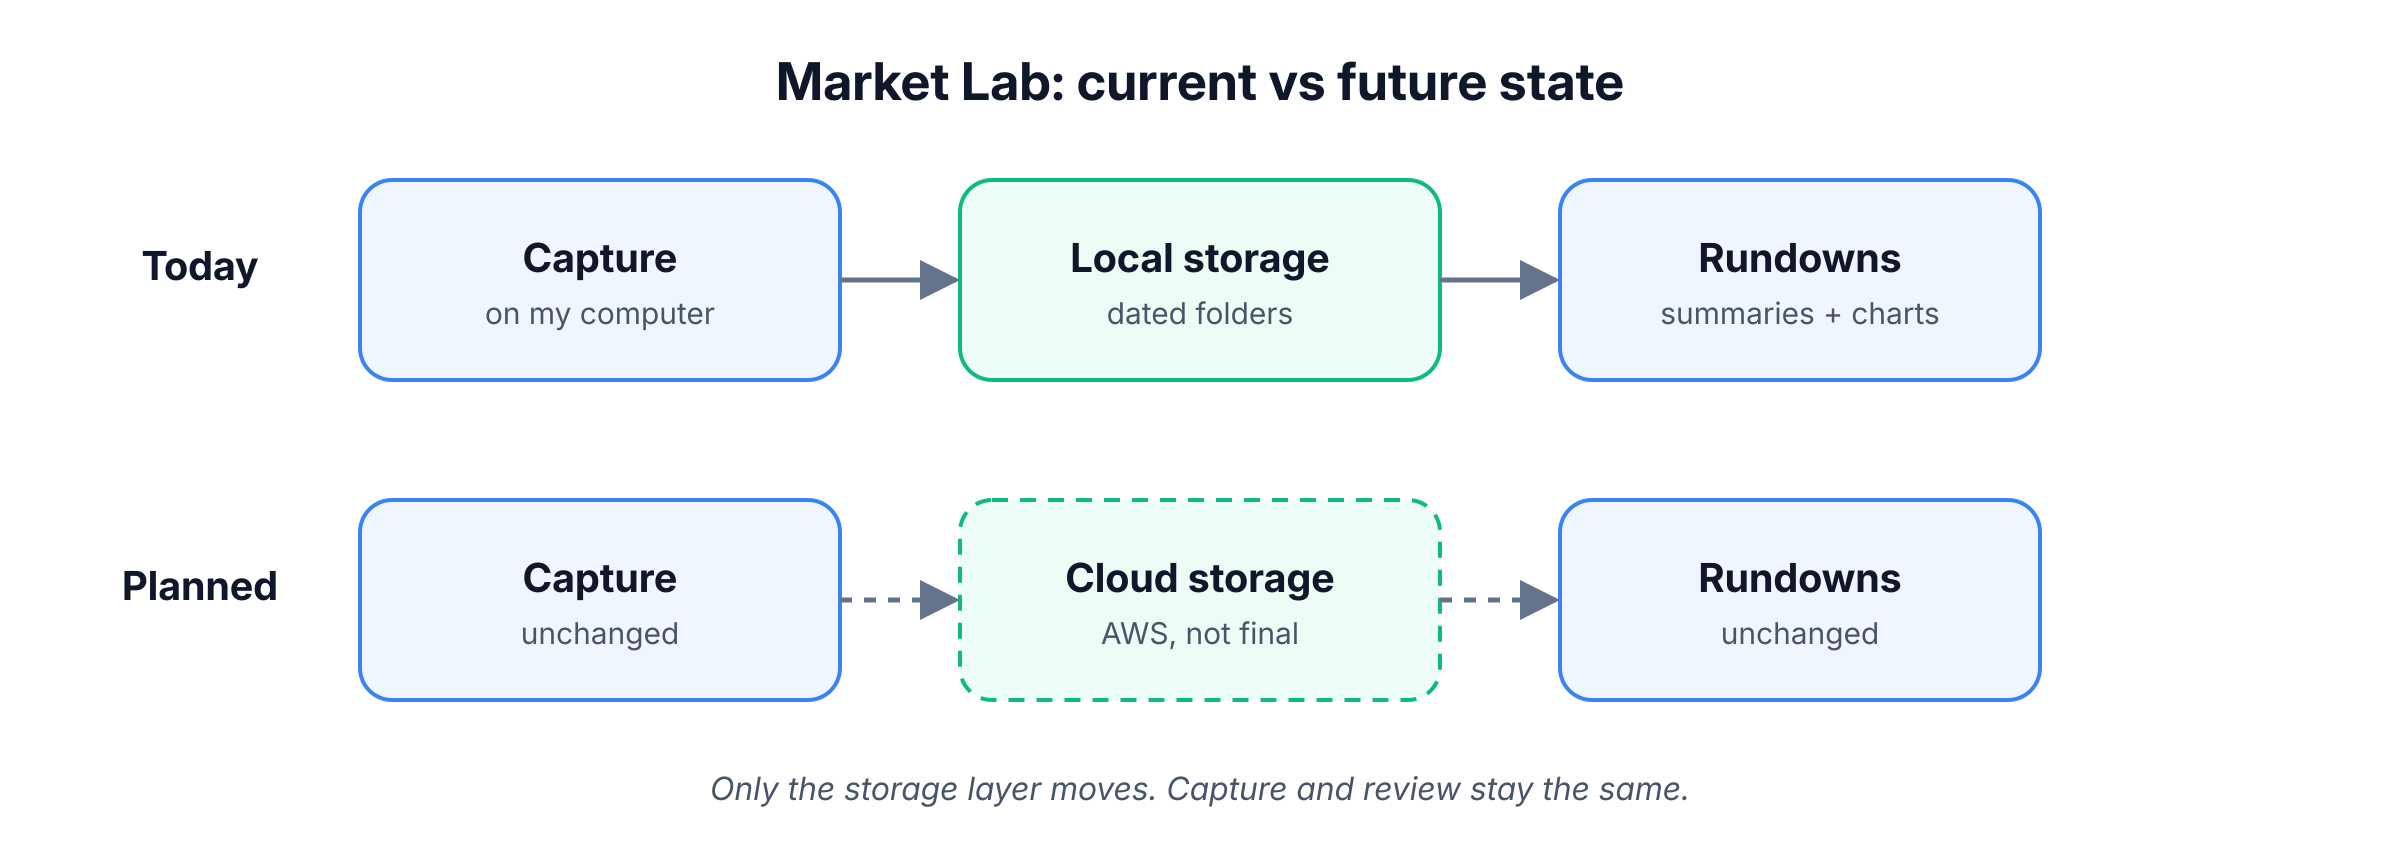
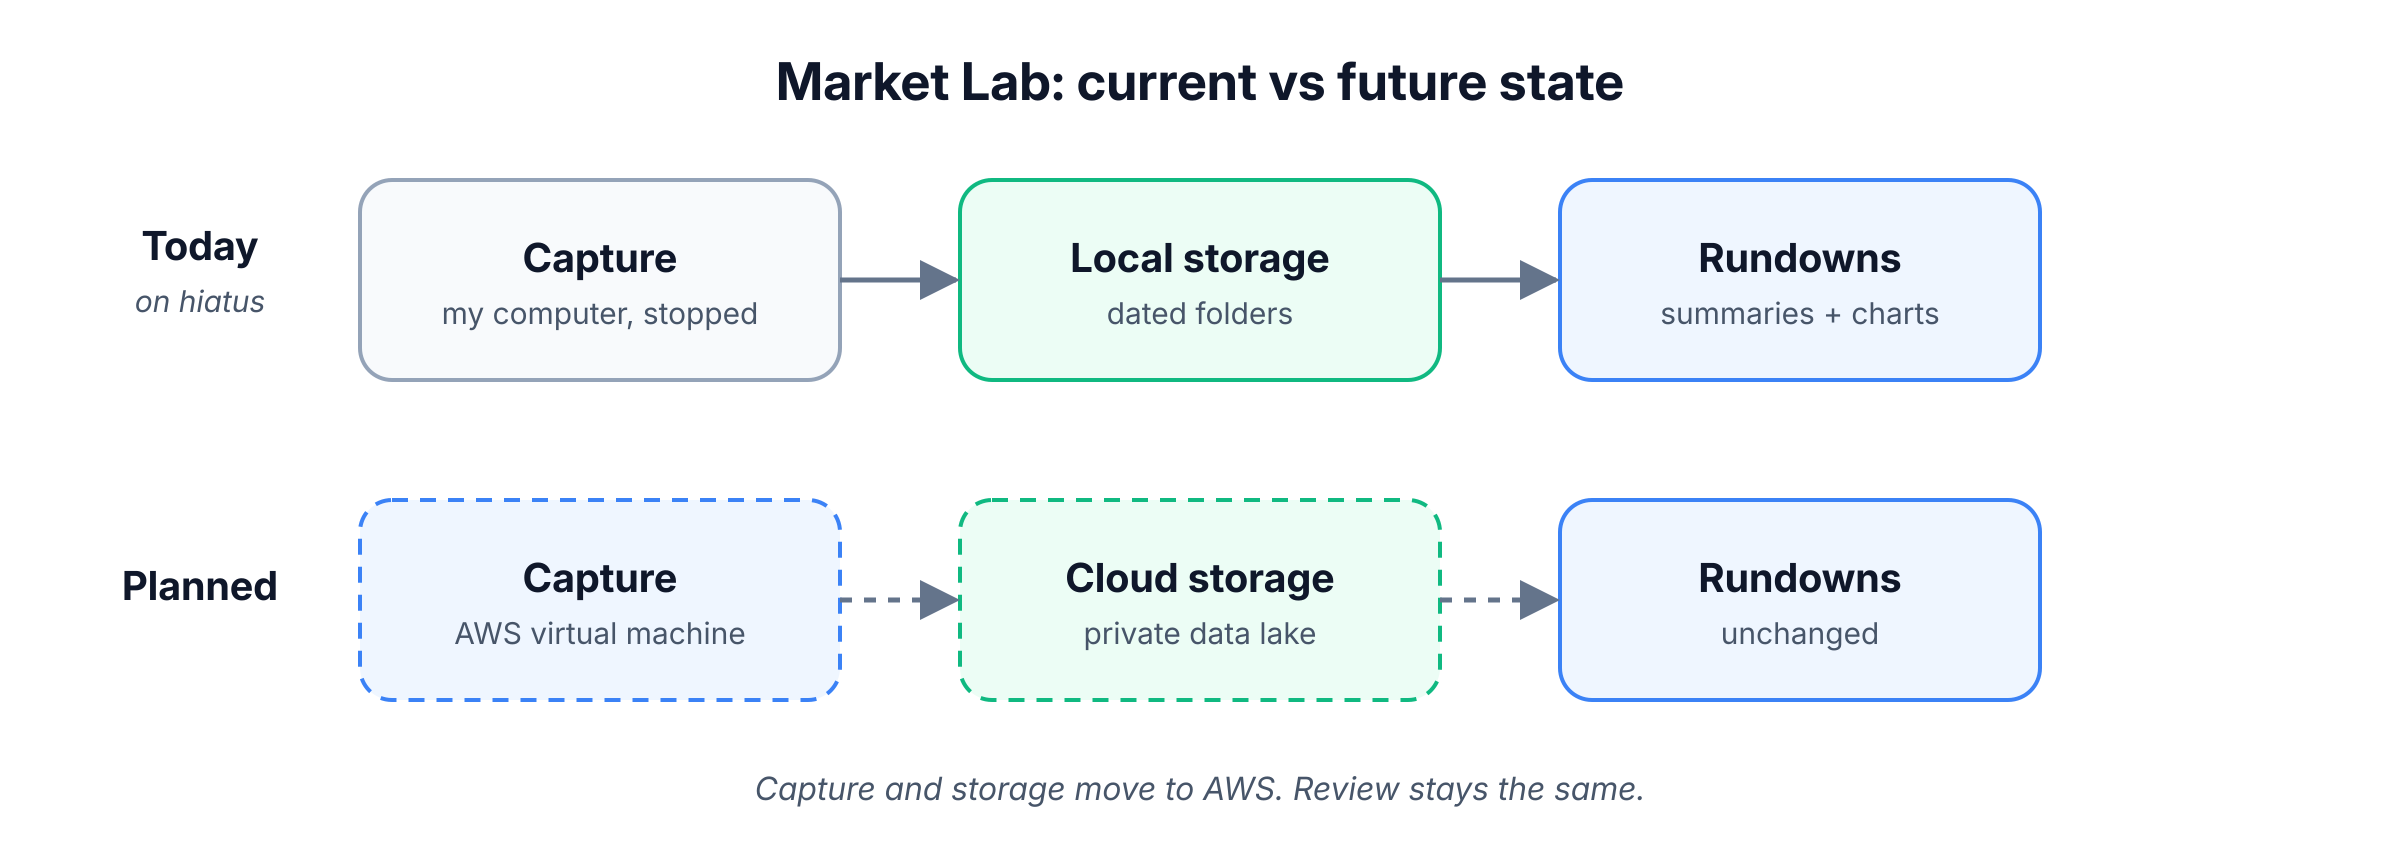
docs: center Market Lab on the provider adapter and the AWS move

diff --git a/market-lab/assets/gen.py b/market-lab/assets/gen.py
@@ -39,7 +39,7 @@ GRAY = ("#F8FAFC", "#94A3B8")
 # 1. Simple architecture: one capture session, left to right.
 o = []
 text(o, 600, 50, "Market Lab: how data moves", 26, bold=True)
-box(o, 40, 120, 200, 110, "Market feed", "licensed data", *GRAY)
+box(o, 40, 120, 200, 110, "Provider adapter", "any data platform", *GRAY)
 box(o, 300, 120, 200, 110, "Rate gate", "shared call limit", *AMBER)
 box(o, 560, 120, 200, 110, "Capture", "scheduled scripts", *BLUE)
 box(o, 820, 120, 200, 110, "Local storage", "private, dated", *GREEN)
@@ -57,22 +57,23 @@ arrow(o, 1020, 350, 1058, 350)
 text(o, 600, 450, "Raw data stays local. Only summaries and charts leave.", 16, SUB, ital=True)
 svg("market-lab-architecture-simple.svg", 1200, 480, o)
 
-# 2. Current state vs future state: only storage moves.
+# 2. Current state vs future state.
 o = []
 text(o, 600, 50, "Market Lab: current vs future state", 26, bold=True)
-text(o, 100, 140, "Today", 20, bold=True)
-box(o, 180, 90, 240, 100, "Capture", "on my computer", *BLUE)
+text(o, 100, 130, "Today", 20, bold=True)
+text(o, 100, 156, "on hiatus", 15, SUB, ital=True)
+box(o, 180, 90, 240, 100, "Capture", "my computer, stopped", *GRAY)
 box(o, 480, 90, 240, 100, "Local storage", "dated folders", *GREEN)
 box(o, 780, 90, 240, 100, "Rundowns", "summaries + charts", *BLUE)
 arrow(o, 420, 140, 478, 140)
 arrow(o, 720, 140, 778, 140)
 text(o, 100, 300, "Planned", 20, bold=True)
-box(o, 180, 250, 240, 100, "Capture", "unchanged", *BLUE)
-box(o, 480, 250, 240, 100, "Cloud storage", "AWS, not final", *GREEN, dash=True)
+box(o, 180, 250, 240, 100, "Capture", "AWS virtual machine", *BLUE, dash=True)
+box(o, 480, 250, 240, 100, "Cloud storage", "private data lake", *GREEN, dash=True)
 box(o, 780, 250, 240, 100, "Rundowns", "unchanged", *BLUE)
 arrow(o, 420, 300, 478, 300, dash=True)
 arrow(o, 720, 300, 778, 300, dash=True)
-text(o, 600, 400, "Only the storage layer moves. Capture and review stay the same.", 16, SUB, ital=True)
+text(o, 600, 400, "Capture and storage move to AWS. Review stays the same.", 16, SUB, ital=True)
 svg("market-lab-current-vs-future.svg", 1200, 430, o)
 
 # 3. Placeholder photo.

diff --git a/market-lab/README.md b/market-lab/README.md
@@ -5,6 +5,8 @@
 Market Lab is my personal market-data pipeline.
 It captures live market data on a schedule, stores it privately, and turns it into summaries and charts I can read.
 It's analysis only. It never places anything in the market.
+It's modular. Any market-data platform can plug in behind one adapter.
+The platform I use in development is one implementation, not the product.
 It's also where I practice running scheduled jobs, guardrails, and AI agents against real, messy data.
 
 <img src="assets/market-lab-placeholder.png" alt="Placeholder image for Market Lab" width="320">
@@ -17,25 +19,38 @@ For a step-by-step walkthrough, see [How Market Lab works](how-market-lab-works.
 
 ![How Market Lab works: capture scripts pull from a licensed market feed through a shared rate gate, save to private local storage, and a watchdog restarts capture if it stops; summaries and charts go to me for review](assets/market-lab-architecture-simple.svg)
 
-*One capture session, simplified.*
+*One capture session, simplified. The provider adapter is the swap point.*
 
 1. **Scheduled start.** Capture jobs start before the market opens and wait for the session.
-2. **Sign-in check.** When the data provider asks, I confirm sign-in on my phone.
-3. **Rate gate.** Every call goes through one shared limit, so jobs can't flood the feed.
-4. **Capture.** Scripts record market depth and quotes during set windows.
-5. **Private storage.** Raw data lands in dated local folders and is never committed or shared.
-6. **Rundowns.** After the close, an agent turns the data into summaries and charts.
-7. **Review.** I read the rundown. Summaries go to my notes through a pull request.
+2. **Provider adapter.** Capture talks to one adapter, not to a vendor. Swapping platforms means writing a new adapter.
+3. **Sign-in check.** When the data provider asks, I confirm sign-in on my phone.
+4. **Rate gate.** Every call goes through one shared limit, so jobs can't flood the feed.
+5. **Capture.** Scripts record market depth and quotes during set windows.
+6. **Private storage.** Raw data lands in dated local folders and is never committed or shared.
+7. **Rundowns.** After the close, an agent turns the data into summaries and charts.
+8. **Review.** I read the rundown. Summaries go to my notes through a pull request.
 
 ## Current state vs future state
 
 ![Market Lab current state vs future state: today capture, storage, and rundowns run on my computer; in the plan, only storage moves to the cloud](assets/market-lab-current-vs-future.svg)
 
-*Only the storage layer changes between today and the plan.*
+*Capture and storage move to AWS. The review side stays the same.*
 
-**Current state.** Capture runs on my own computer. Raw data stays in local, dated folders. Summaries and charts go to my notes.
+**Current state: on hiatus.** Capture ran on my own computer, with raw data in local, dated folders.
+I stopped local capture after October 21, 2026, on purpose.
+The scheduled capture jobs and the watchdog are paused until the move is done.
 
-**Future state (planned).** Storage moves to the cloud on AWS: a data lake for raw files and a database for cleaned data. The design is still open. Capture and review stay the same.
+**Future state: migration to AWS (planned).** The code moves to a virtual machine on AWS with more resources.
+The planned pieces are:
+
+- **A private data lake.** Raw files go to cloud storage with public access blocked and encryption on.
+- **Infrastructure as code.** The cloud setup is defined in files and reviewed like any other change.
+- **Short-lived cloud credentials.** Pipelines sign in with temporary credentials instead of long-lived ones.
+- **A hosted store for cleaned data.** The choice between options is still open.
+
+**What it unlocks.** Capture no longer runs on my personal computer.
+The bigger machine leaves room for more capture and heavier analysis.
+And the provider adapter makes it simpler to add or swap a data platform later.
 
 ## Guardrails, and where they act
 
@@ -51,8 +66,9 @@ For a step-by-step walkthrough, see [How Market Lab works](how-market-lab-works.
 
 Market Lab is a place to try ideas on a small, real system:
 
+- **Swappable providers.** Keeping the data platform behind one adapter, so it can change without touching capture or storage.
 - **Storage tiers.** Comparing local folders with a hosted lake and database before committing to one.
-- **Safe migration.** Planning a move of capture to new hardware without losing a session.
+- **Safe migration.** Planning the move to AWS so existing data keeps building with no reset.
 - **Pluggable analysis.** A lab engine where each piece of a test run can be swapped.
 
 ## Testing AI models

diff --git a/market-lab/how-market-lab-works.md b/market-lab/how-market-lab-works.md
@@ -3,18 +3,20 @@
 [← Back to Market Lab](README.md)
 
 This walks through one capture session, start to finish.
+Capture is on hiatus while it moves to AWS. The steps stay the same after the move.
 
 ## The steps
 
 1. **Jobs wake up.** Before the open, scheduled jobs start and wait for the session.
 2. **I confirm sign-in.** If the data provider asks, the check comes to my phone and I approve it.
-3. **Calls pass the rate gate.** Every script shares one call limit, so no job can flood the feed.
-4. **Capture runs.** Scripts record market depth and quotes during set windows.
-5. **Data lands locally.** Each run writes to a dated folder. Raw data never goes to Git.
-6. **The watchdog keeps watch.** If capture stops, it restarts it and tells me what it did.
-7. **Sizes are logged.** After the close, a job records how much data and how many calls the session used.
-8. **A rundown is written.** An agent turns the session into a summary and charts.
-9. **I review it.** The rundown goes to my notes through a pull request.
+3. **Calls go through the adapter.** Capture talks to one provider adapter, so any data platform can sit behind it.
+4. **Calls pass the rate gate.** Every script shares one call limit, so no job can flood the feed.
+5. **Capture runs.** Scripts record market depth and quotes during set windows.
+6. **Data lands locally.** Each run writes to a dated folder. Raw data never goes to Git.
+7. **The watchdog keeps watch.** If capture stops, it restarts it and tells me what it did.
+8. **Sizes are logged.** After the close, a job records how much data and how many calls the session used.
+9. **A rundown is written.** An agent turns the session into a summary and charts.
+10. **I review it.** The rundown goes to my notes through a pull request.
 
 ## Around every turn
 

diff --git a/README.md b/README.md
@@ -37,7 +37,7 @@ Jarvis is my personal AI assistant, built around Rokid Glasses. I also use it to
 
 <a href="market-lab/README.md"><img src="market-lab/assets/market-lab-placeholder.png" alt="Placeholder image for Market Lab" width="160" align="right"></a>
 
-Market Lab is my personal market-data pipeline. It captures live market data on a schedule, keeps it private, and turns it into summaries and charts I review.
+Market Lab is my personal market-data pipeline. It captures live market data on a schedule, keeps it private, and turns it into summaries and charts I review. It's modular, so any market-data platform can plug in, and it's on hiatus while it moves to AWS.
 
 **[Explore Market Lab →](market-lab/README.md)**
 
